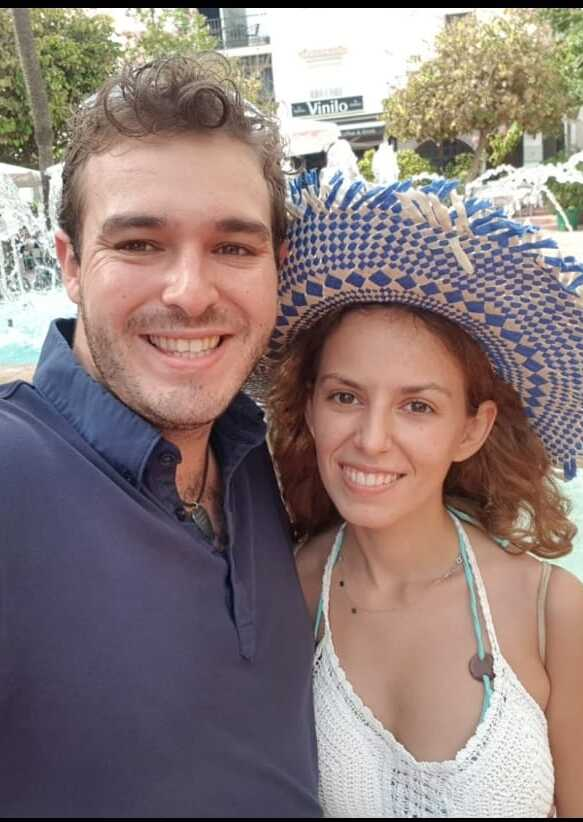
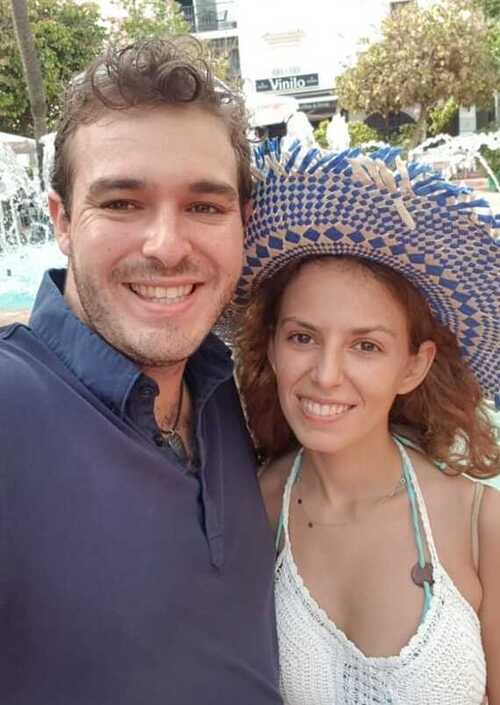
feat: update hero image and replace existing asset in index.html

diff --git a/index.html b/index.html
@@ -50,7 +50,7 @@
   <section class="hero" id="hero">
 
     <div class="hero__side hero__side--image">
-      <img src="assets/rizos3.jpeg" alt="Verónica & Emilio" class="hero__bg-image">
+      <img src="assets/hero.jpeg" alt="Verónica & Emilio" class="hero__bg-image">
       <div class="hero__overlay"></div>
     </div>
 
